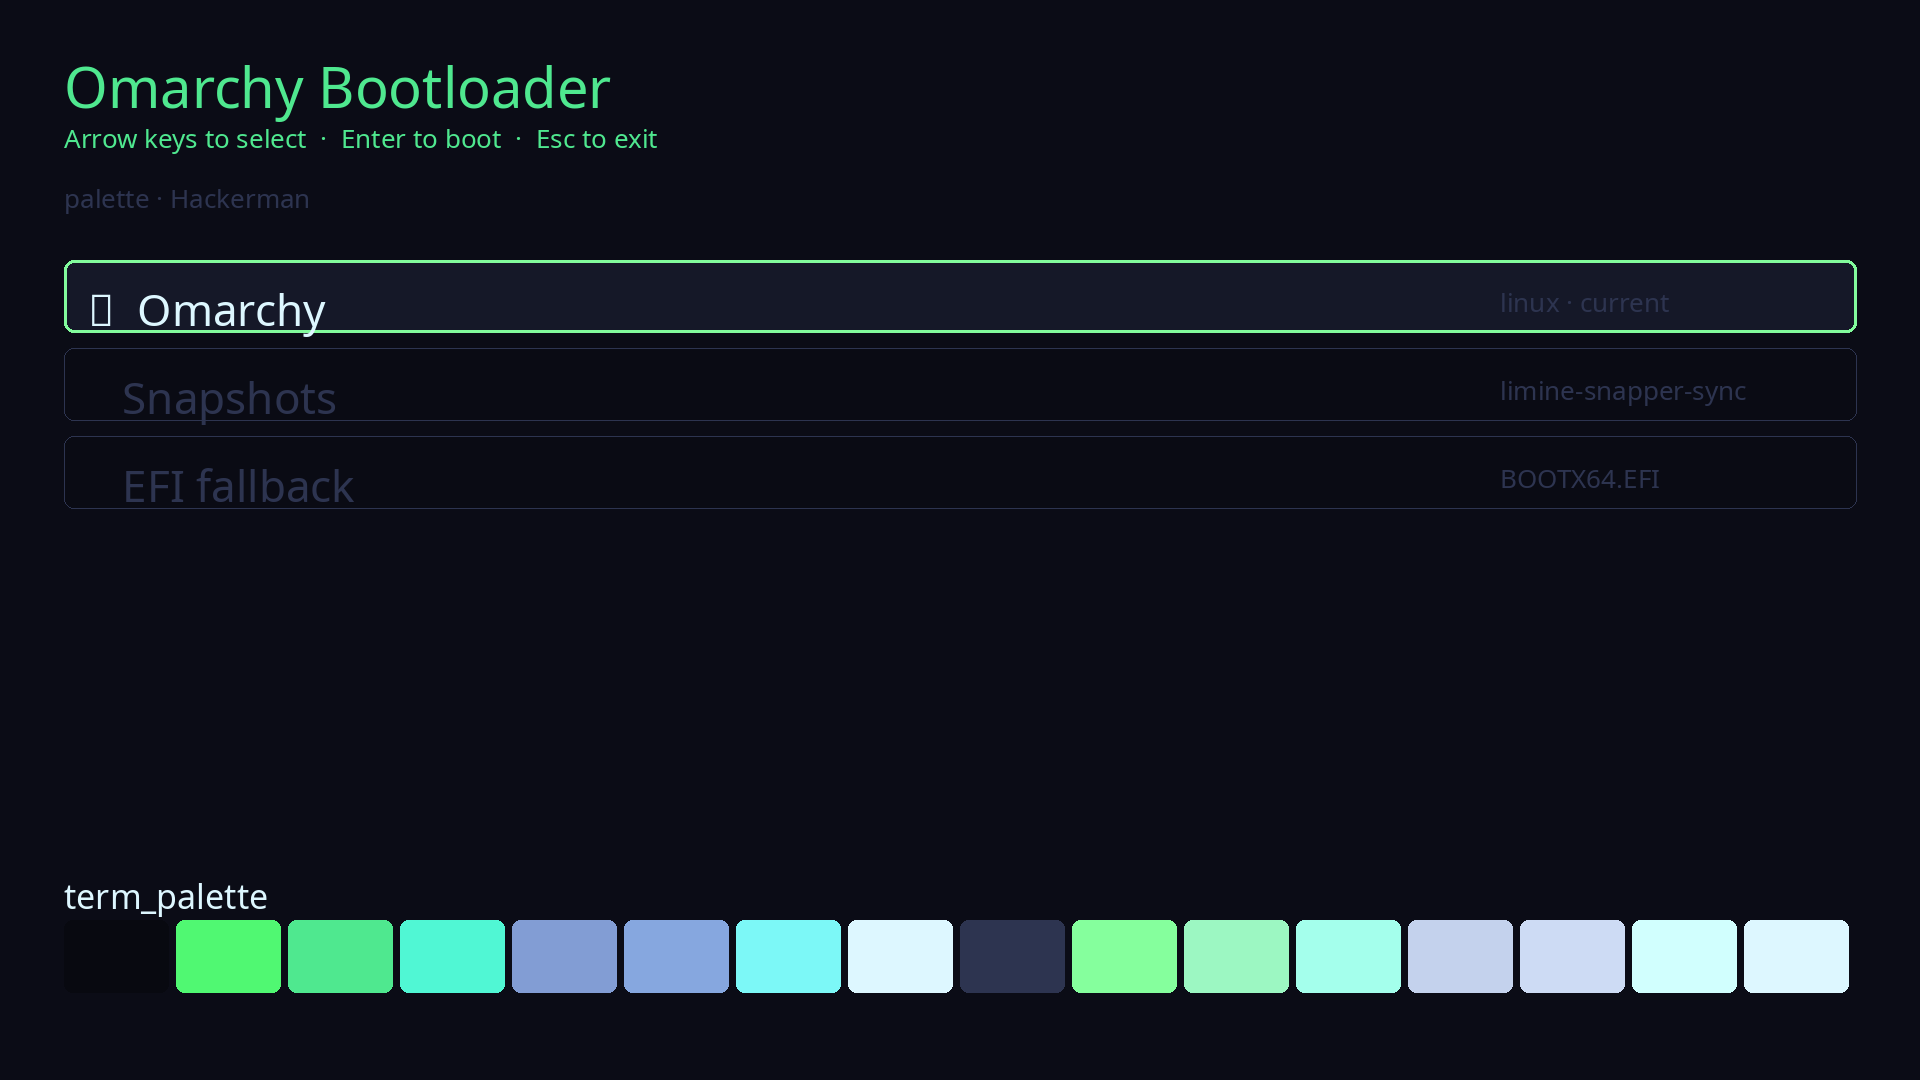
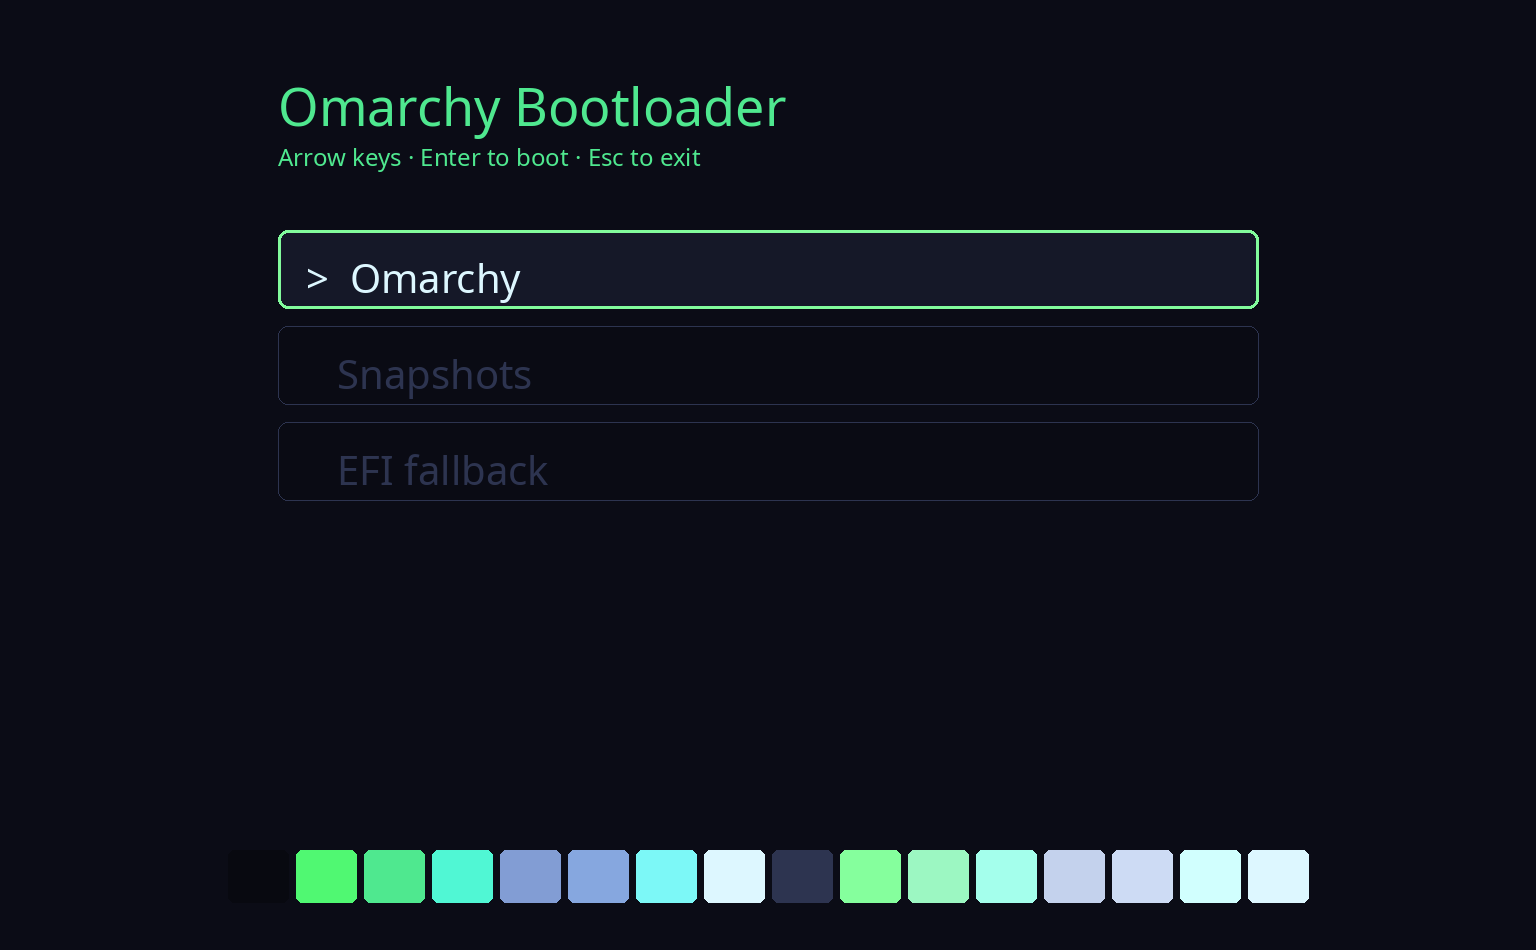
Center Limine mockups for the Style carousel and document no-extra-asset goals.
Match the ~768×475 tile aspect so PreserveAspectCrop stops clipping edge
chrome, and spell out that themes need only colors.toml.

diff --git a/lib/omaboot.py b/lib/omaboot.py
@@ -1,10 +1,12 @@
 #!/usr/bin/env python3
 """OmaBoot — Style-menu Limine boot palettes from any Omarchy theme.
 
-Discovers every theme with a colors.toml, renders Limine-style mockups, and
-patches only a managed colour block in limine.conf (sudo). Boot entries and
-any custom cmdline stay untouched. Not hooked to theme-set — boot is not
-user-land and needs a password.
+Discovers every theme with a colors.toml (no extra theme assets required),
+renders centered Limine-style mockups for the Style carousel, and patches
+only a managed colour block in limine.conf (sudo). Boot entries and any
+custom cmdline stay untouched. Not hooked to theme-set — boot is not
+user-land and needs a password. Mockups are illustrative — Limine has no
+headless renderer, so these are not WYSIWYG boot screenshots.
 """
 
 from __future__ import annotations
@@ -500,13 +502,22 @@ def branding_label(existing_conf: str | None = None) -> str:
     return "Omarchy Bootloader"
 
 
+# Style carousel selected tile is 768×475 (~1.62). Match that aspect so
+# PreserveAspectCrop does not shave left/right the way 16:9 sources do.
+MOCKUP_SIZE = (1536, 950)
+
+
 def render_mockup(
     palette: dict[str, Any],
     dest: Path,
-    size: tuple[int, int] = (1920, 1080),
+    size: tuple[int, int] = MOCKUP_SIZE,
     branding: str = "Omarchy Bootloader",
 ) -> Path:
-    """Fake Limine interface: backdrop, branding, help, menu rows, palette strip."""
+    """Fake Limine interface: centered branding, menu rows, palette strip.
+
+    Theme name is the picker label — keep chrome in the middle safe zone so
+    the Style carousel does not crop important text.
+    """
     w, h = size
     bg = palette["background"]
     brand = palette["brand"]
@@ -518,50 +529,63 @@ def render_mockup(
     img = Image.new("RGB", size, hex_to_rgb(bg))
     draw = ImageDraw.Draw(img)
 
-    font_sm = try_font(26)
-    font_md = try_font(34)
-    font_lg = try_font(44)
-    font_xl = try_font(56)
+    font_sm = try_font(24)
+    font_lg = try_font(40)
+    font_xl = try_font(52)
 
-    # Top branding + help (mirrors Limine chrome)
-    draw.text((64, 48), branding, font=font_xl, fill=hex_to_rgb(brand))
-    help_bits = "Arrow keys to select  ·  Enter to boot  ·  Esc to exit"
-    draw.text((64, 120), help_bits, font=font_sm, fill=hex_to_rgb(brand))
+    # Centered column — mirrors Limine without hugging the image edges.
+    col_w = 980
+    col_x = (w - col_w) // 2
+    top = 70
 
-    # Theme name badge
-    draw.text((64, 180), f"palette · {palette['name']}", font=font_sm, fill=hex_to_rgb(muted))
+    draw.text((col_x, top), branding, font=font_xl, fill=hex_to_rgb(brand))
+    draw.text(
+        (col_x, top + 70),
+        "Arrow keys · Enter to boot · Esc to exit",
+        font=font_sm,
+        fill=hex_to_rgb(brand),
+    )
 
     entries = [
-        ("Omarchy", True, "linux · current"),
-        ("Snapshots", False, "limine-snapper-sync"),
-        ("EFI fallback", False, "BOOTX64.EFI"),
+        ("Omarchy", True),
+        ("Snapshots", False),
+        ("EFI fallback", False),
     ]
-    row_top = 260
-    row_h = 72
-    for index, (label, selected, comment) in enumerate(entries):
-        y0 = row_top + index * (row_h + 16)
+    row_top = top + 160
+    row_h = 78
+    for index, (label, selected) in enumerate(entries):
+        y0 = row_top + index * (row_h + 18)
         y1 = y0 + row_h
-        box = (64, y0, w - 64, y1)
+        box = (col_x, y0, col_x + col_w, y1)
         if selected:
-            draw.rounded_rectangle(box, radius=10, fill=hex_to_rgb(sel_bg), outline=hex_to_rgb(accent), width=3)
+            draw.rounded_rectangle(
+                box, radius=10, fill=hex_to_rgb(sel_bg), outline=hex_to_rgb(accent), width=3
+            )
             ink = fg
-            marker = "▶"
+            marker = ">"
         else:
-            draw.rounded_rectangle(box, radius=10, fill=hex_to_rgb(darken(bg, 0.08)), outline=hex_to_rgb(muted), width=1)
+            draw.rounded_rectangle(
+                box, radius=10, fill=hex_to_rgb(darken(bg, 0.08)), outline=hex_to_rgb(muted), width=1
+            )
             ink = muted
             marker = " "
-        draw.text((88, y0 + 18), f"{marker}  {label}", font=font_lg, fill=hex_to_rgb(ink))
-        draw.text((w - 420, y0 + 24), comment, font=font_sm, fill=hex_to_rgb(muted))
+        draw.text((col_x + 28, y0 + 20), f"{marker}  {label}", font=font_lg, fill=hex_to_rgb(ink))
 
-    # 16-colour strip from the mapped Limine palettes
-    strip_y = h - 160
-    draw.text((64, strip_y - 48), "term_palette", font=font_md, fill=hex_to_rgb(fg))
-    cells = palette["limine"]["term_palette"].split(";") + palette["limine"]["term_palette_bright"].split(";")
-    cell_w = (w - 128) // max(len(cells), 1)
+    # Centered 16-colour strip from the mapped Limine palettes
+    cells = palette["limine"]["term_palette"].split(";") + palette["limine"][
+        "term_palette_bright"
+    ].split(";")
+    strip_y = h - 100
+    cell_w = 68
+    total = cell_w * len(cells)
+    x0 = (w - total) // 2
     for index, cell in enumerate(cells):
-        x0 = 64 + index * cell_w
-        x1 = x0 + cell_w - 8
-        draw.rounded_rectangle((x0, strip_y, x1, strip_y + 72), radius=8, fill=hex_to_rgb("#" + cell))
+        cx = x0 + index * cell_w
+        draw.rounded_rectangle(
+            (cx + 4, strip_y, cx + cell_w - 4, strip_y + 52),
+            radius=6,
+            fill=hex_to_rgb("#" + cell),
+        )
 
     dest.parent.mkdir(parents=True, exist_ok=True)
     img.save(dest, format="PNG", optimize=True)

diff --git a/README.md b/README.md
@@ -15,6 +15,24 @@ labelled image picker, one mockup per installed theme, and an apply step that
 asks for sudo in a floating terminal. Boot is not user-land, so this is
 **not** tied to `omarchy theme set`.
 
+## Goals (and honest limits)
+
+These Style plugins extend Omarchy’s theme system **without requiring theme
+authors — or you — to ship anything extra**. Official themes, your forks, and
+third-party installs all work as long as they have a `colors.toml`.
+
+| Goal | What that means here |
+|------|----------------------|
+| Zero extra assets | No per-theme Limine art. Colours come from `colors.toml` alone. |
+| Extreme compatibility | Stock + user + foreign themes all appear in the picker automatically. |
+| Illustrative mockups | Centered Limine-ish chrome. **Not** a real boot framebuffer — Limine has no headless renderer. |
+| Carousel-safe | Mockups match the Style tile aspect (~768×475) so edge text is not cropped. |
+| Slow pickers are OK | Warming every theme PNG takes a moment; that is the cost of generating previews instead of bundling assets. |
+
+True WYSIWYG would need QEMU screenshots or extra art per theme — that narrows
+the scope we refuse to narrow. Plymouth Unlock looks “real” because Omarchy
+already ships unlock chrome; boot does not, so we draw from the palette.
+
 ## What you get
 
 - **Style → Boot Themes** in the Omarchy menu — same carousel picker as Unlock /
@@ -83,7 +101,6 @@ Uninstall removes the menu row and cache/state. It does **not** rewrite
 
 - Limine only reads the conf at boot — reboot to see the new palette on bare
   metal.
-- Mockups are illustrative, not a pixel-perfect Limine framebuffer.
 - There is no separate Plymouth-style **Default** tile: Omarchy’s stock Limine
   palette is Tokyo Night in practice, so pick **Tokyo Night** for install-day
   colours.
@@ -100,8 +117,9 @@ bash ~/.config/omarchy/plugins/io.github.alxwolfenstein97.omaboot/check.sh
 
 - Hero mockup: official **Hackerman** theme (the loudest stock neon Omarchy
   ships).
-- Sibling plugin: [OmaOBS](https://github.com/AlxWolfenstein97/omaobs) — same
-  Style-menu mockup pipeline for OBS Studio.
+- Sibling plugins: [OmaOBS](https://github.com/AlxWolfenstein97/omaobs),
+  [OmaVT](https://github.com/AlxWolfenstein97/omavt),
+  [OmaTTY](https://github.com/AlxWolfenstein97/omatty).
 - [Omarchy](https://omarchy.org/) — theme pipeline, Style menu image picker,
   and Limine defaults this plugin patches carefully.
 
